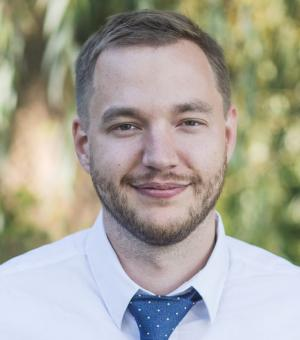
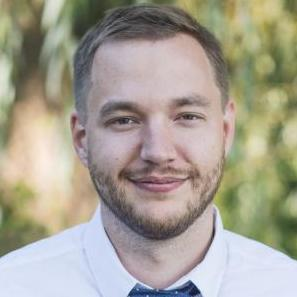
Center profile pic over top line

diff --git a/src/assets/scss/layout/_header.scss b/src/assets/scss/layout/_header.scss
@@ -63,11 +63,24 @@
   }
 
   .logo {
-    width: 7.5rem;
-    height: 7.5rem;
-    line-height: 7.5rem;
-    border: solid _size(border-width) _palette(border);
+    width: 8rem;
+    height: 8rem;
+    line-height: 8rem;
     border-radius: 100%;
+    position: relative;
+    display: flex;
+    margin-left: auto;
+    margin-right: auto;
+
+    img {
+      border-radius: 50%;
+      border: solid 2px _palette(border);
+      width: 150%;
+      position: absolute;
+      left: 50%;
+      left: 50%;
+      -webkit-transform: translateY(-50%) translateX(-50%);
+    }
 
     .icon {
       &:before {
@@ -94,13 +107,9 @@
       );
       @include vendor('transition-delay', '0.25s');
       padding: 3rem 2rem;
+      padding-top: 1rem;
       max-height: 40rem;
       overflow: hidden;
-
-      > :last-child {
-        margin-bottom: 0;
-      }
-    }
 
     p {
       text-transform: uppercase;
@@ -109,6 +118,7 @@
       line-height: 2;
     }
   }
+}
 
   nav {
     ul {

diff --git a/src/components/Header.js b/src/components/Header.js
@@ -6,14 +6,12 @@ import headshot from '../images/andrew_moeller.jpg'
 const Header = props => (
   <header id="header" style={props.timeout ? { display: 'none' } : {}}>
     <div className="content">
-      <div className="inner">
-        <span className="image circle left">
+        <div className="logo">
             <img src={headshot} alt="" />
-        </span>
-        <div classNaame="inner center">
+        </div>
+      <div className="inner">
           <h1>Andrew Moeller</h1>
           <p>Twentieth centry British historian specializing in intellectual and religious history</p>
-        </div>
       </div>
     </div>
     <nav>
